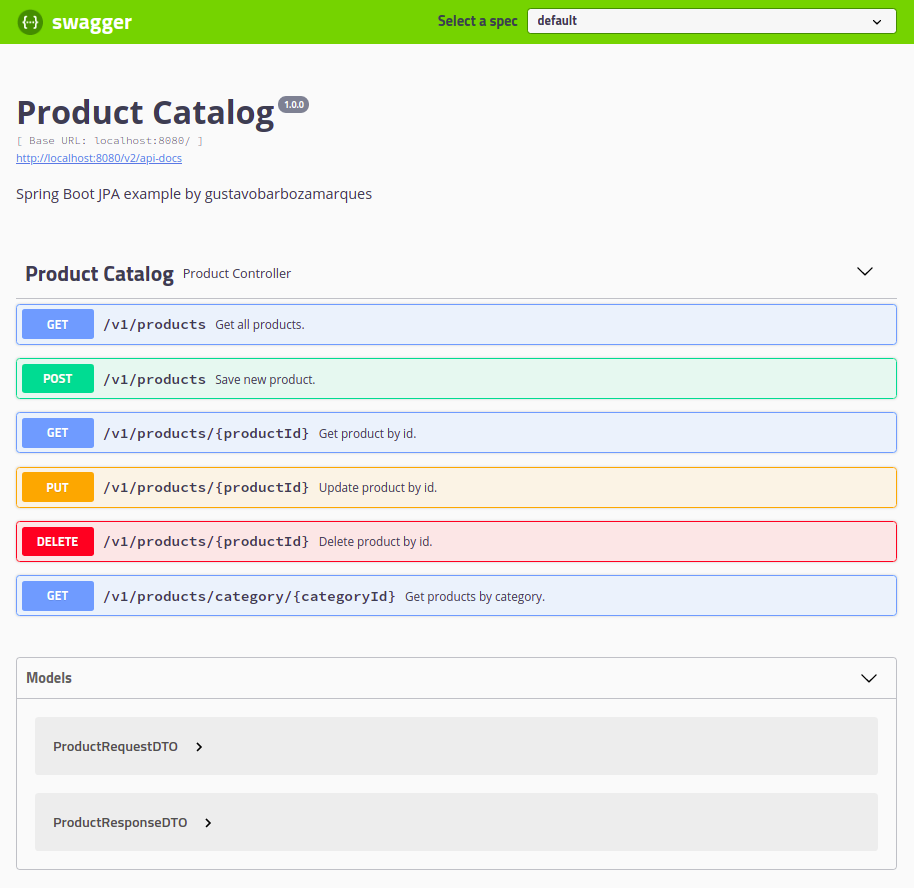
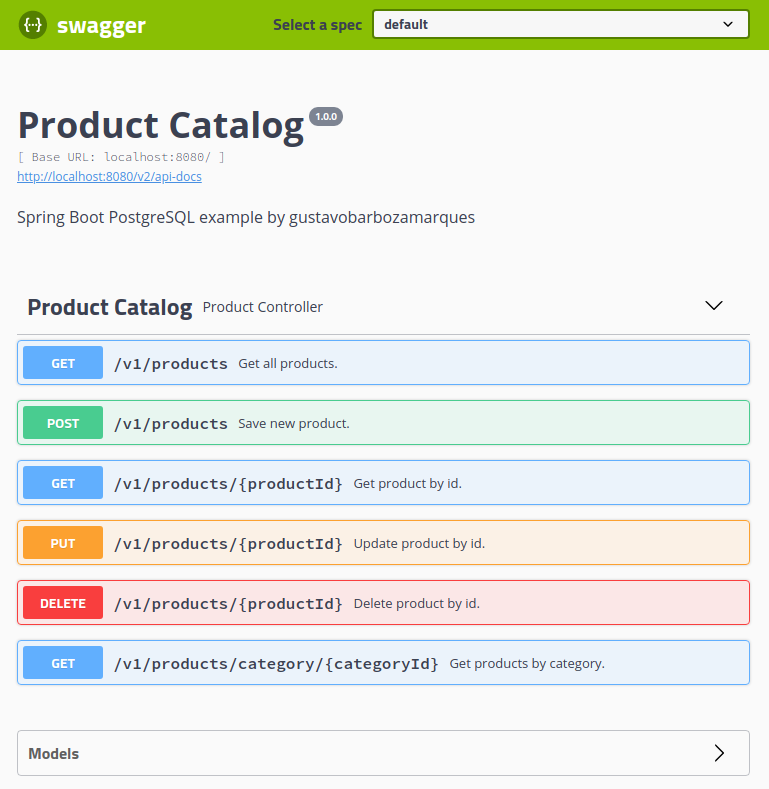
Rename project and Advice controller exception handler added

diff --git a/src/test/java/br/com/gustavobarbozamarques/controllers/ProductControllerTest.java b/src/test/java/br/com/gustavobarbozamarques/controllers/ProductControllerTest.java
@@ -57,6 +57,26 @@ class ProductControllerTest {
     }
 
     @Test
+    void testGetByIdShouldBadRequestIfWrongId() throws Exception {
+        var product = ProductResponseDTOMock.get();
+        when(productService.getById(product.getId())).thenReturn(product);
+        this.mockMvc
+                .perform(get(String.format("/v1/products/%s", "INVALID_ID")))
+                .andDo(print())
+                .andExpect(status().isBadRequest());
+    }
+
+    @Test
+    void testGetByIdShouldBadRequestIfZeroId() throws Exception {
+        var product = ProductResponseDTOMock.get();
+        when(productService.getById(product.getId())).thenReturn(product);
+        this.mockMvc
+                .perform(get(String.format("/v1/products/%d", 0)))
+                .andDo(print())
+                .andExpect(status().isBadRequest());
+    }
+
+    @Test
     void testGetByIdShouldReturnNotFoundIfNotExists() throws Exception {
         var product = ProductResponseDTOMock.get();
         when(productService.getById(product.getId()))
@@ -167,5 +187,30 @@ class ProductControllerTest {
                 )
                 .andDo(print())
                 .andExpect(status().isBadRequest());
+    }
+
+    @Test
+    void testDeleteShouldReturnSuccessIfValid() throws Exception {
+        var productDTO = ProductRequestDTOMock.get();
+        this.mockMvc
+                .perform(
+                        delete("/v1/products/1")
+                                .contentType(MediaType.APPLICATION_JSON)
+                                .content(objectMapper.writeValueAsString(productDTO))
+                )
+                .andDo(print())
+                .andExpect(status().isOk());
+    }
+
+    @Test
+    void testDeleteShouldReturnNotFoundIfNotExists() throws Exception {
+        var product = ProductResponseDTOMock.get();
+        doThrow(new ResponseStatusException(HttpStatus.NOT_FOUND, "Product not found."))
+                .when(productService)
+                .delete(product.getId());
+        this.mockMvc
+                .perform(delete(String.format("/v1/products/%d", product.getId())))
+                .andDo(print())
+                .andExpect(status().isNotFound());
     }
 }

diff --git a/src/main/java/br/com/gustavobarbozamarques/controllers/ProductController.java b/src/main/java/br/com/gustavobarbozamarques/controllers/ProductController.java
@@ -42,7 +42,7 @@ public class ProductController {
     @ResponseStatus(HttpStatus.OK)
     @ApiOperation("Get product by id.")
     public ProductResponseDTO getById(
-            @Valid @PathVariable("productId") @Min(value = 1, message = "Invalid productId value.") Integer productId
+            @PathVariable("productId") @Min(value = 1, message = "Invalid productId value.") Integer productId
     ) {
         return productService.getById(productId);
     }
@@ -51,7 +51,7 @@ public class ProductController {
     @ResponseStatus(HttpStatus.OK)
     @ApiOperation("Get products by category.")
     public List<ProductResponseDTO> getByCategory(
-            @Valid @PathVariable("categoryId") @Min(value = 1, message = "Invalid categoryId value.") Integer categoryId
+            @PathVariable("categoryId") @Min(value = 1, message = "Invalid categoryId value.") Integer categoryId
     ) {
         return productService.getByCategory(categoryId);
     }
@@ -67,7 +67,7 @@ public class ProductController {
     @ResponseStatus(HttpStatus.OK)
     @ApiOperation("Update product by id.")
     public void update(
-            @Valid @PathVariable("productId") @Min(value = 1, message = "Invalid productId value.") Integer productId,
+            @PathVariable("productId") @Min(value = 1, message = "Invalid productId value.") Integer productId,
             @Valid @RequestBody ProductRequestDTO productRequestDTO
     ) {
         productService.save(productId, productRequestDTO);
@@ -77,7 +77,7 @@ public class ProductController {
     @ResponseStatus(HttpStatus.OK)
     @ApiOperation("Delete product by id.")
     public void delete(
-            @Valid @PathVariable("productId") @Min(value = 1, message = "Invalid productId value.") Integer productId
+            @PathVariable("productId") @Min(value = 1, message = "Invalid productId value.") Integer productId
     ) {
         productService.delete(productId);
     }

diff --git a/src/main/java/br/com/gustavobarbozamarques/controllers/ControllerExceptionHandler.java b/src/main/java/br/com/gustavobarbozamarques/controllers/ControllerExceptionHandler.java
@@ -1,0 +1,19 @@
+package br.com.gustavobarbozamarques.controllers;
+
+import lombok.extern.slf4j.Slf4j;
+import org.springframework.http.HttpStatus;
+import org.springframework.web.bind.annotation.ControllerAdvice;
+import org.springframework.web.bind.annotation.ExceptionHandler;
+import org.springframework.web.bind.annotation.ResponseStatus;
+
+import javax.validation.ConstraintViolationException;
+
+@ControllerAdvice
+@Slf4j
+public class ControllerExceptionHandler {
+    @ResponseStatus(HttpStatus.BAD_REQUEST)
+    @ExceptionHandler(ConstraintViolationException.class)
+    public void handleConstraintViolationException(ConstraintViolationException e) {
+        log.error(e.getMessage(), e);
+    }
+}

diff --git a/src/main/java/br/com/gustavobarbozamarques/config/SwaggerConfig.java b/src/main/java/br/com/gustavobarbozamarques/config/SwaggerConfig.java
@@ -26,7 +26,7 @@ public class SwaggerConfig implements WebMvcConfigurer {
     private ApiInfo apiInfo() {
         return new ApiInfoBuilder()
                 .title("Product Catalog")
-                .description("Spring Boot JPA example by gustavobarbozamarques")
+                .description("Spring Boot PostgreSQL example by gustavobarbozamarques")
                 .version("1.0.0")
                 .build();
     }

diff --git a/README.md b/README.md
@@ -1,10 +1,11 @@
-# Spring Boot JPA
+# Spring Boot PostgreSQL
 
-This project demonstrates a simple microservice that uses Spring Boot and JPA with the PostgreSQL database.
+This project demonstrates a simple microservice that uses Spring Boot and PostgreSQL database.
 
 ### Run project
 
 ``` docker-compose build ```
+
 ``` docker-compose up ``` 
 
 And access: ``` http://localhost:8080/v1/products ``` 
